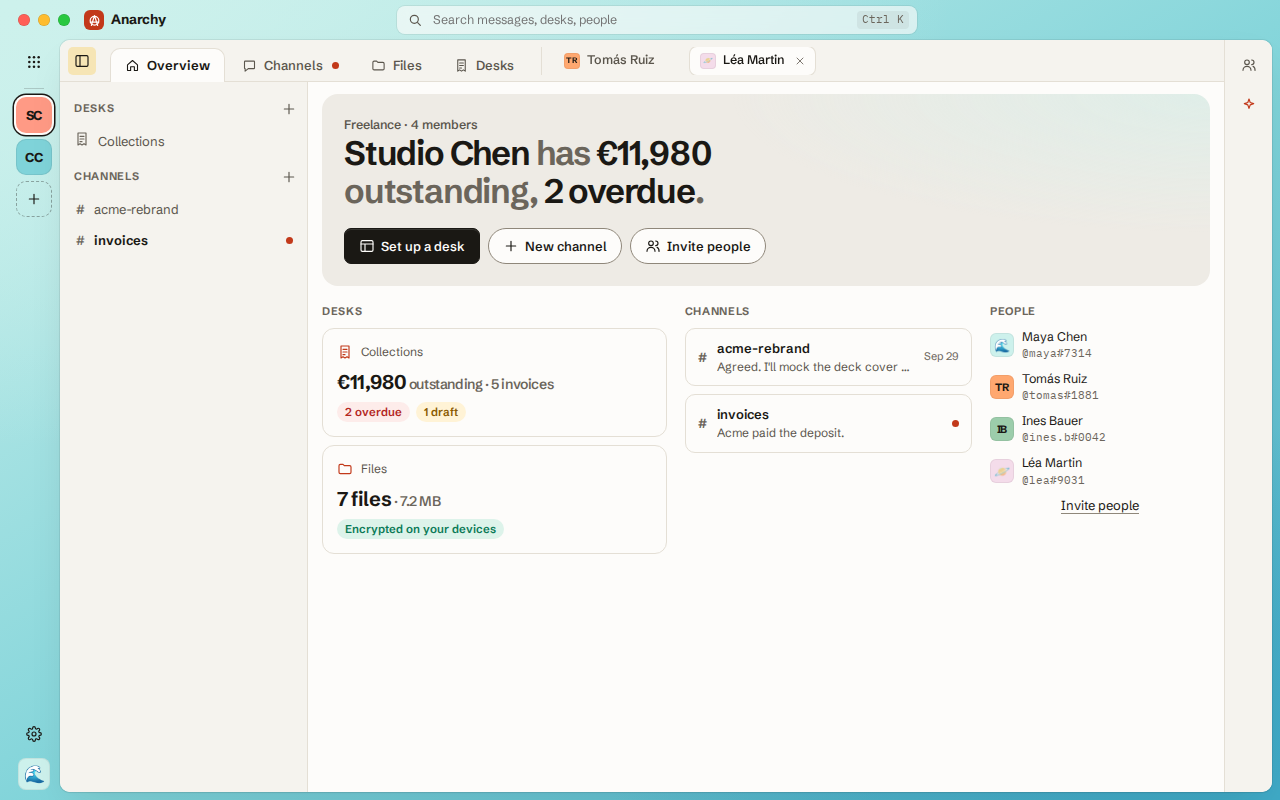
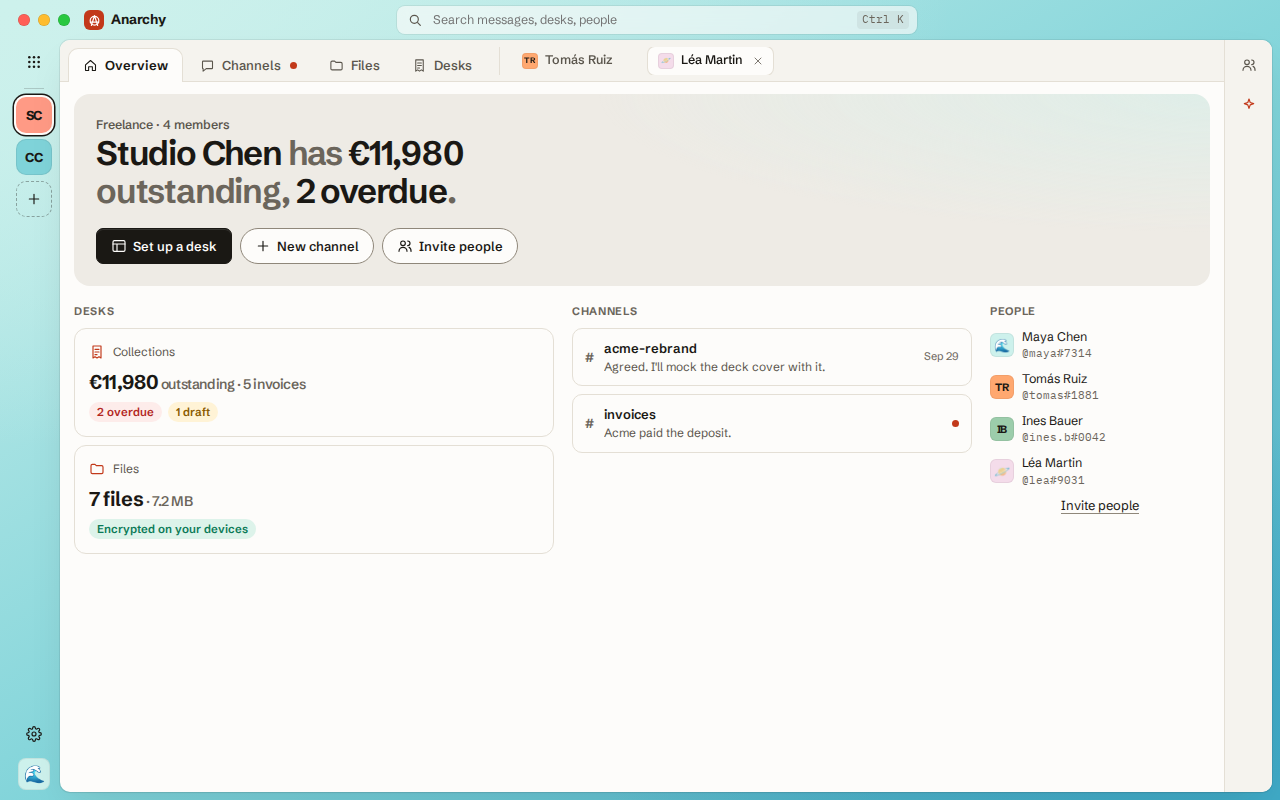
Fix threads docking; sidebar only for conversations; one right-hand column
- Threads: the conversation was squeezed to a sliver because an old rule
  reserved space for the thread on top of the new docking. Thread tabs keep
  their name when you're in another channel. Opening People or the assistant
  closes the thread; all three dock on the right at one width.
- The left sidebar shows only in Chats (Home) and Channels (a space).
  Overview, Files, Desks, Agenda and Notes get the full width; Notes keeps
  its page list inside the page. Desks left the sidebar (the Desks folder
  lists them).
- @mentions: desks show in the picker at once instead of after the member
  list loads, so typing fast and pressing Enter picks instead of sending.
- Agenda's controls no longer restyle the desk's status tabs.
- The preview script now checks the thread flows and fails if they break.
- Docs: D26.

Claude-Session: https://claude.ai/code/session_01JqRrPLnBLMGeUFp3LTktD7

diff --git a/apps/desktop/ui/app.js b/apps/desktop/ui/app.js
@@ -493,6 +493,7 @@ function renderRail() {
 
 function go(which) {
   view = which;
+  chatsHint = false;
   closeDrawers();
   renderRail();
   if (which === "settings") {
@@ -569,9 +570,6 @@ function renderSide() {
   show("no-dms", dms.length === 0);
   if (view === "space" && currentSpace) {
     const desks = channels.filter((c) => c.kind === "channel" && c.space === currentSpace.id && c.desk && c.desk !== "files");
-    $("desk-list").replaceChildren(...desks.map((c) => el("button", { class: `side-item${c.id === current ? " active" : ""}`, "data-id": c.id, onclick: () => openChannel(c.id) },
-      el("span", { class: "kind-icon" }, icon("receipt")), el("span", { class: "name", text: c.name }))));
-    show("no-desks", desks.length === 0);
     const list = channels.filter((c) => c.kind === "channel" && c.space === currentSpace.id && !c.desk);
     $("channel-list").replaceChildren(...list.map((c) => {
       const unread = c.unread && c.id !== current;
@@ -727,7 +725,11 @@ function renderThread() {
   $("thread-input").placeholder = root && !root.mine ? `Reply to ${root.sender}…` : "Reply in thread…";
 }
 $("thread-close").addEventListener("click", closeThread);
-$("thread-tab").addEventListener("click", () => { if (thread) { addTab({ channel: thread.channel, thread: thread.root }); renderTabs(); } });
+function threadLabel() {
+  const root = convo?.messages.find((m) => m.seq === thread?.root && m.thread == null);
+  return root ? root.text.slice(0, 32) : null;
+}
+$("thread-tab").addEventListener("click", () => { if (thread) { addTab({ channel: thread.channel, thread: thread.root, label: threadLabel() }); renderTabs(); } });
 $("thread-input").addEventListener("input", () => { $("thread-send").disabled = !$("thread-input").value.trim(); mentionInput($("thread-input")); });
 $("thread-input").addEventListener("blur", () => setTimeout(closeMention, 120));
 $("thread-input").addEventListener("keydown", (e) => {
@@ -745,7 +747,7 @@ $("thread-form").addEventListener("submit", async (e) => {
     await invoke("send_message", { channel, text, thread: root });
     await forwardToDesks(text, channels.find((c) => c.id === channel));
     // Taking part in a thread puts it in the working set.
-    addTab({ channel, thread: root });
+    addTab({ channel, thread: root, label: threadLabel() });
   } catch (err) { $("thread-input").value = text; alert(`Not sent: ${err}`); }
   await openChannel(channel);
 });
@@ -764,9 +766,9 @@ const tabKey = (t) => (t.thread != null ? `${t.channel}:${t.thread}` : t.channel
 function addTab(t) {
   const key = tabKey(t);
   const at = tabs.find((x) => tabKey(x) === key);
-  if (at) at.used = Date.now();
+  if (at) { at.used = Date.now(); if (t.label) at.label = t.label; }
   else {
-    tabs.push({ channel: t.channel, thread: t.thread ?? null, used: Date.now() });
+    tabs.push({ channel: t.channel, thread: t.thread ?? null, label: t.label || null, used: Date.now() });
     while (tabs.length > MAX_TABS) {
       const active = activeTabKey();
       const victim = tabs.filter((x) => tabKey(x) !== active).sort((a, b) => a.used - b.used)[0];
@@ -824,7 +826,7 @@ function renderTabs() {
     if (t.thread != null) {
       lead = el("span", { class: "tab-icon" }, icon("thread"));
       const root = convo?.channel.id === c.id ? convo.messages.find((m) => m.seq === t.thread && m.thread == null) : null;
-      name = root ? root.text.slice(0, 28) : `Thread in ${c.kind === "dm" ? c.name : `#${c.name}`}`;
+      name = root ? root.text.slice(0, 32) : t.label || `Thread in ${c.kind === "dm" ? c.name : `#${c.name}`}`;
       const replies = convo?.channel.id === c.id ? convo.messages.filter((m) => m.thread === t.thread) : [];
       const unseen = replies.filter((r) => !r.mine && r.seq > (threadSeen[key] || 0)).length;
       if (unseen && key !== active) status = el("span", { class: "tab-badge", text: String(unseen) });
@@ -864,8 +866,11 @@ document.addEventListener("keydown", (e) => {
 
 let settingsAt = "profile";
 const SETTINGS_PAGES = [["profile", "Profile"], ["privacy", "Privacy"], ["account", "Account & device"], ["appearance", "Appearance"], ["notifications", "Notifications"], ["files", "Files on this computer"], ["devices", "Devices"], ["invites", "Guest invites"]];
+// Set when you pick Chats with no conversation open, so the list still shows.
+let chatsHint = false;
 function sectionNow() {
   const cur = channels.find((c) => c.id === current);
+  if (!cur && chatsHint && (view === "home" || view === "space")) return "chats";
   if (!$("view-desks").hidden) return "desks";
   if (!$("view-agenda").hidden) return "agenda";
   if (!$("view-notes").hidden) return note?.file ? "files" : "notes";
@@ -901,6 +906,7 @@ function lastOpen(pred) {
 }
 async function openSection(key) {
   if (thread) closeThread();
+  chatsHint = false;
   const here = (c) => (view === "home" ? c.kind === "dm" : c.space === currentSpace?.id);
   if (key === "overview") { current = null; invoke("blur"); showStart(); renderSide(); return; }
   if (key === "agenda") return openAgenda();
@@ -914,7 +920,8 @@ async function openSection(key) {
   }
   // Chats / Channels: pick up where you left off, else the first one, else the list.
   const last = lastOpen((c) => here(c) && !c.desk) || channels.find((c) => here(c) && !c.desk && (view === "home" ? true : c.kind === "channel"));
-  if (last) { await openChannel(last.id); composer.focus(); } else toggleDrawer("chats", true);
+  if (last) { await openChannel(last.id); composer.focus(); }
+  else { current = null; showStart(); chatsHint = true; renderFolders(); toggleDrawer("chats", true); }
 }
 async function showDesks() {
   const sp = currentSpace;
@@ -948,7 +955,9 @@ function toggleDrawer(name, force) {
 }
 function closeDrawers() { drawer = null; paintDrawers(); }
 function paintDrawers() {
-  const chatsOn = pinned || drawer === "chats";
+  // The sidebar belongs to conversations only: Chats on Home, Channels in a space.
+  const chatSection = view !== "settings" && sectionNow() === "chats";
+  const chatsOn = chatSection && (pinned || drawer === "chats");
   show("drawer-chats", chatsOn);
   show("drawer-people", drawer === "people");
   syncDock();
@@ -956,8 +965,9 @@ function paintDrawers() {
   $("drawer-chats").classList.toggle("pinned", pinned);
   $("tool-chats").setAttribute("aria-expanded", String(chatsOn));
   if (chatsOn) show("tool-chats-dot", false);
-  show("drawer-chats", chatsOn && view !== "settings");
-  $("workspace").classList.toggle("chats-pinned", pinned && view !== "settings");
+  show("drawer-chats", chatsOn);
+  show("tool-chats", chatSection);
+  $("workspace").classList.toggle("chats-pinned", chatsOn && pinned);
   $("tool-people").setAttribute("aria-expanded", String(drawer === "people"));
   // Docked: the button collapses it. Popped over: the same button docks it.
   for (const b of document.querySelectorAll(".drawer-pin")) {
@@ -1141,13 +1151,23 @@ async function mentionInput(input) {
   const m = /(^|\s)@([^\s@]{0,24})$/.exec(upto);
   if (!m) return closeMention();
   const q = m[2].toLowerCase();
+  const start = upto.length - m[2].length - 1;
   const desks = desksInScope().filter((d) => d.name.toLowerCase().includes(q)).map((d) => ({ kind: "desk", label: d.name, sub: `Desk · ${KIND_OF_DESK[d.desk] || d.desk}`, insert: `@${d.name}`, d }));
-  const people = (await mentionPeople()).filter((p) => `${p.name} ${p.handle}`.toLowerCase().includes(q)).slice(0, 5)
-    .map((p) => ({ kind: "person", label: p.name, sub: `@${p.handle}`, insert: `@${p.handle.split("#")[0]}`, p }));
-  const items = [...desks, ...people].slice(0, 7);
-  if (!items.length) return closeMention();
-  mention = { input, start: upto.length - m[2].length - 1, items, cursor: 0 };
-  paintMention();
+  // Desks are known on this device: show them now; people follow once loaded.
+  const show = (people) => {
+    const items = [...desks, ...people].slice(0, 7);
+    if (!items.length) return closeMention();
+    const keep = mention && mention.input === input && mention.start === start ? mention.cursor : 0;
+    mention = { input, start, items, cursor: Math.min(keep, items.length - 1) };
+    paintMention();
+  };
+  if (desks.length) show([]);
+  const all = await mentionPeople();
+  // Still typing the same mention?
+  const now = input.value.slice(0, input.selectionStart);
+  if (!now.endsWith(`@${m[2]}`)) return;
+  show(all.filter((p) => `${p.name} ${p.handle}`.toLowerCase().includes(q)).slice(0, 5)
+    .map((p) => ({ kind: "person", label: p.name, sub: `@${p.handle}`, insert: `@${p.handle.split("#")[0]}`, p })));
 }
 function paintMention() {
   const pop = $("mention-pop");
@@ -1309,11 +1329,10 @@ function syncDock() {
 // Which list the sidebar shows: the space's desks and channels, or on Home the
 // list for the section you're in (conversations, pages, what's coming).
 function paintSide() {
-  const sec = view === "home" ? sectionNow() : null;
+  paintDrawers();
   show("side-space", view === "space");
-  show("side-home", view === "home" && sec !== "notes" && sec !== "agenda");
-  show("side-notes", view === "home" && sec === "notes");
-  show("side-agenda", view === "home" && sec === "agenda");
+  show("side-home", view === "home");
+
 }
 
 // ---------- personal desks: agenda and notes ----------
@@ -1413,15 +1432,7 @@ function renderAgenda() {
     grid.replaceChildren(...cols);
   }
 }
-function renderAgendaSide() {
-  const today = isoToday();
-  const horizon = addDays(today, 14);
-  const next = [...events(), ...agenda.dues].filter((e) => e.date >= today && e.date <= horizon).sort((a, b) => a.date.localeCompare(b.date) || (a.start || "").localeCompare(b.start || ""));
-  $("agenda-next").replaceChildren(...next.slice(0, 20).map((e) => el("button", { class: "side-item agenda-item", type: "button", onclick: () => (e.due ? goTo(e.channel) : openEvent(e)) },
-    el("span", { class: `ev-dot ${e.due ? "due" : `c-${e.color || "ink"}`}` }),
-    el("span", { class: "lines" }, el("span", { class: "name", text: e.title }), el("small", { text: `${e.date === today ? "Today" : shortDate.format(asDate(e.date))}${e.due ? "" : e.all_day ? "" : ` · ${e.start}`}` })))));
-  show("no-agenda", next.length === 0);
-}
+function renderAgendaSide() { /* the calendar shows it; no sidebar outside chats */ }
 $("agenda-prev").addEventListener("click", () => { const c = agenda.cursor; agenda.cursor = agenda.mode === "month" ? new Date(c.getFullYear(), c.getMonth() - 1, 1, 12) : new Date(c.getTime() - 7 * 864e5); renderAgenda(); });
 $("agenda-next-btn").addEventListener("click", () => { const c = agenda.cursor; agenda.cursor = agenda.mode === "month" ? new Date(c.getFullYear(), c.getMonth() + 1, 1, 12) : new Date(c.getTime() + 7 * 864e5); renderAgenda(); });
 $("agenda-today").addEventListener("click", () => { agenda.cursor = new Date(); renderAgenda(); });
@@ -1450,7 +1461,6 @@ function openEvent(e, iso) {
 }
 $("ev-allday").addEventListener("change", () => { for (const id of ["ev-start", "ev-end"]) $(id).disabled = $("ev-allday").checked; });
 $("event-new").addEventListener("click", () => openEvent(null, isoOf(agenda.cursor)));
-$("event-new-side").addEventListener("click", () => openEvent(null));
 $("event-cancel").addEventListener("click", () => $("dlg-event").close());
 async function putEvent(id, data) {
   const channel = await personalDesk("agenda");
@@ -2498,8 +2508,7 @@ $("desk-people").addEventListener("click", () => openPeople(true));
 
 // New desk.
 function openNewDesk() { $("desk-new-name").value = "Collections"; setError("desk-error", ""); $("dlg-desk").showModal(); $("desk-new-name").select(); }
-$("new-desk").addEventListener("click", openNewDesk);
-$("no-desks").addEventListener("click", openNewDesk);
+
 $("space-empty-desk").addEventListener("click", openNewDesk);
 $("desk-cancel").addEventListener("click", () => $("dlg-desk").close());
 $("desk-form").addEventListener("submit", async (e) => {

diff --git a/apps/desktop/ui/index.html b/apps/desktop/ui/index.html
@@ -297,25 +297,8 @@
             <div class="side-list" id="dm-list"></div>
             <p class="side-empty" id="no-dms">No conversations yet.</p>
           </div>
-          <!-- Home, Notes: your pages -->
-          <div class="side" id="side-notes" hidden>
-            <div class="side-list"><button class="side-item nav" id="note-new" type="button"><svg class="i"><use href="#i-plus"/></svg><span class="name">New page</span></button></div>
-            <label class="search pill side-search"><svg class="i"><use href="#i-search"/></svg><input id="note-search" placeholder="Find a page" aria-label="Find a page"></label>
-            <div class="side-list" id="note-list"></div>
-            <p class="side-empty" id="no-notes">No pages yet.</p>
-          </div>
-          <!-- Home, Agenda: what's coming -->
-          <div class="side" id="side-agenda" hidden>
-            <div class="side-list"><button class="side-item nav" id="event-new-side" type="button"><svg class="i"><use href="#i-plus"/></svg><span class="name">New event</span></button></div>
-            <div class="side-group"><span>Next two weeks</span></div>
-            <div class="side-list" id="agenda-next"></div>
-            <p class="side-empty" id="no-agenda">Nothing planned.</p>
-          </div>
-          <!-- Space: its desks and channels (Overview and Files are folders above) -->
+          <!-- Space: its channels (desks, files and the overview are folders above) -->
           <div class="side" id="side-space" hidden>
-            <div class="side-group"><span>Desks</span><button class="icon-btn sm" id="new-desk" aria-label="New desk" title="New desk"><svg class="i"><use href="#i-plus"/></svg></button></div>
-            <div class="side-list" id="desk-list"></div>
-            <button class="side-empty link-row" id="no-desks" type="button">Set up a desk for invoices, requests or jobs</button>
             <div class="side-group"><span>Channels</span><button class="icon-btn sm" id="new-channel" aria-label="New channel" title="New channel"><svg class="i"><use href="#i-plus"/></svg></button></div>
             <div class="side-list" id="channel-list"></div>
             <p class="side-empty" id="no-channels">No channels yet.</p>
@@ -394,8 +377,8 @@
           <div class="agenda-head">
             <div><p class="hero-kind" id="agenda-kind">Agenda</p><h1 class="agenda-title" id="agenda-title"></h1></div>
             <span class="spacer"></span>
-            <div class="seg pill" role="group" aria-label="Move"><button type="button" id="agenda-prev" aria-label="Previous"><svg class="i"><use href="#i-arrow-left"/></svg></button><button type="button" id="agenda-today">Today</button><button type="button" id="agenda-next-btn" aria-label="Next"><svg class="i flip"><use href="#i-arrow-left"/></svg></button></div>
-            <div class="seg pill agenda-mode" role="tablist" aria-label="View"><button type="button" role="tab" data-mode="week">Week</button><button type="button" role="tab" data-mode="month">Month</button></div>
+            <div class="navseg" role="group" aria-label="Move"><button type="button" id="agenda-prev" aria-label="Previous"><svg class="i"><use href="#i-arrow-left"/></svg></button><button type="button" id="agenda-today">Today</button><button type="button" id="agenda-next-btn" aria-label="Next"><svg class="i flip"><use href="#i-arrow-left"/></svg></button></div>
+            <div class="navseg agenda-mode" role="tablist" aria-label="View"><button type="button" role="tab" data-mode="week">Week</button><button type="button" role="tab" data-mode="month">Month</button></div>
             <button class="btn-ink inline" id="event-new" type="button"><svg class="i"><use href="#i-plus"/></svg><span>Add event</span></button>
           </div>
           <div class="cal-grid" id="cal-grid"></div>
@@ -403,6 +386,13 @@
 
         <!-- Notes: pages with blocks, like a notebook; also edits text files from the drive -->
         <div class="view notes" id="view-notes" hidden>
+          <aside class="note-pages" aria-label="Pages">
+            <button class="side-item nav" id="note-new" type="button"><svg class="i"><use href="#i-plus"/></svg><span class="name">New page</span></button>
+            <label class="search pill side-search"><svg class="i"><use href="#i-search"/></svg><input id="note-search" placeholder="Find a page" aria-label="Find a page"></label>
+            <div class="side-list" id="note-list"></div>
+            <p class="side-empty" id="no-notes">No pages yet.</p>
+          </aside>
+          <section class="note-main">
           <div class="note-bar"><nav class="crumbs" id="note-crumbs" aria-label="Where"></nav><span class="spacer"></span><span class="fine" id="note-saved"></span><button class="icon-btn" id="note-delete" type="button" title="Delete page" aria-label="Delete page"><svg class="i"><use href="#i-trash"/></svg></button></div>
           <div class="note-scroll">
             <article class="note-page" id="note-page">
@@ -412,6 +402,7 @@
               <p class="note-hint fine">Type <kbd>/</kbd> for headings, lists, to-dos, quotes and code. <kbd>#</kbd>, <kbd>-</kbd>, <kbd>[]</kbd> and <kbd>&gt;</kbd> work too.</p>
             </article>
           </div>
+          </section>
           <div class="slash-pop panel" id="slash-pop" role="listbox" aria-label="Turn into" hidden></div>
         </div>
 

diff --git a/apps/desktop/ui/app.css b/apps/desktop/ui/app.css
@@ -719,7 +719,6 @@ form.start-card { cursor: default; }
 .thread-count::after { content: ""; flex: 1; border-top: 1px solid var(--border); }
 .thread-orphan { margin: 0; }
 /* Leave room so the conversation stays readable beside a thread on wide windows. */
-@media (min-width: 1180px) { .main.with-panel .convo { padding-right: 400px; } }
 
 .tools { display: flex; flex-direction: column; align-items: center; gap: 6px; padding: 8px 0; border-left: 1px solid var(--border); background: color-mix(in srgb, var(--surface-sunken) 55%, var(--surface)); border-radius: 0 var(--radius-lg) var(--radius-lg) 0; }
 .tool-btn { position: relative; display: grid; place-items: center; width: 34px; height: 34px; border: 0; border-radius: 9px; background: transparent; color: var(--ink-muted); cursor: pointer; }
@@ -771,7 +770,7 @@ button.person-row { cursor: pointer; } .person-row:hover { background: var(--sur
 .side-toggle[aria-pressed="true"] { color: var(--ink); background: var(--surface-selected); }
 .side-search { display: flex; box-sizing: border-box; width: auto; margin: 4px 10px 6px; min-width: 0; }
 .side-search input { flex: 1; min-width: 0; width: auto; }
-.seg.agenda-mode button[aria-selected="true"] { background: var(--ink); color: var(--surface); }
+.navseg.agenda-mode button[aria-selected="true"] { background: var(--ink); color: var(--surface); }
 .search.pill.side-search { width: auto; max-width: none; }
 .ev.big .ev-time { display: none; }
 .agenda-item .lines, .note-item .lines { display: grid; min-width: 0; }
@@ -789,9 +788,9 @@ button.person-row { cursor: pointer; } .person-row:hover { background: var(--sur
 .agenda-head { display: flex; align-items: center; gap: 10px; flex-wrap: wrap; padding: 18px 22px 14px; background: radial-gradient(70% 140% at 85% 0%, color-mix(in srgb, var(--fa) 40%, transparent), transparent 70%); }
 .agenda-title { margin: 2px 0 0; font-size: 30px; line-height: 1.1; font-weight: 700; letter-spacing: -0.02em; }
 .agenda-title .soft { color: var(--ink-faint); font-weight: 600; }
-.seg { display: inline-flex; align-items: center; padding: 3px; gap: 2px; border-radius: 999px; background: var(--surface); box-shadow: 0 0 0 1px var(--border); }
-.seg button { display: grid; place-items: center; height: 28px; min-width: 28px; padding: 0 10px; border: 0; border-radius: 999px; background: transparent; color: var(--ink); font: inherit; font-size: 13px; cursor: pointer; }
-.seg button:hover { background: var(--surface-selected); }
+.navseg { display: inline-flex; align-items: center; padding: 3px; gap: 2px; border-radius: 999px; background: var(--surface); box-shadow: 0 0 0 1px var(--border); }
+.navseg button { display: grid; place-items: center; height: 28px; min-width: 28px; padding: 0 10px; border: 0; border-radius: 999px; background: transparent; color: var(--ink); font: inherit; font-size: 13px; cursor: pointer; }
+.navseg button:hover { background: var(--surface-selected); }
 svg.i.flip { transform: scaleX(-1); }
 .agenda-mode { margin: 0; }
 .cal-grid { flex: 1; min-height: 0; overflow-y: auto; display: grid; grid-template-columns: repeat(7, minmax(0, 1fr)); border-top: 1px solid var(--border); }
@@ -874,3 +873,12 @@ svg.i.flip { transform: scaleX(-1); }
 .today-row small { color: var(--ink-muted); }
 .today-row.empty { color: var(--ink-muted); }
 @media (max-width: 900px) { .home-today { grid-template-columns: 1fr; } }
+
+/* ---------- notes: its own page list, inside the page ---------- */
+.notes { display: grid; grid-template-columns: 240px minmax(0, 1fr); }
+.note-pages { display: flex; flex-direction: column; gap: 4px; min-height: 0; overflow-y: auto; padding: 10px 8px; border-right: 1px solid var(--border); background: color-mix(in srgb, var(--surface-sunken) 35%, var(--surface)); }
+.note-pages .side-search { margin: 2px 2px 6px; }
+.note-main { display: flex; flex-direction: column; min-height: 0; min-width: 0; }
+@container (max-width: 760px) { .notes { grid-template-columns: 1fr; } .note-pages { display: none; } }
+/* One width for everything that docks on the right: People, the assistant, threads. */
+.thread { width: min(380px, 100%); }

diff --git a/docs/ARCHITECTURE.md b/docs/ARCHITECTURE.md
@@ -229,6 +229,7 @@ mcp_audit(id, client_id, user_id, tool, channels_touched[], ts)
 | D23 | **Sections are folder tabs; lists and people pop over from the left.** | Decided 2026-09-29 | The canvas no longer keeps a sidebar open. Its top edge holds folder tabs for the space's sections (Overview, Channels, Files, Desks; in settings, its pages), then the working set (D22). A strip on the left has three buttons that pull panels over the canvas from that edge: the channel and desk list, the people in the space, and Ask. Picking something closes the panel; the list can be pinned for people who switch conversations all day. The cost is a click (or `Ctrl \`, or a tab) to reach a conversation that isn't in the working set; the gain is the full width for desks, files and threads. |
 | D24 | **Sign-in starts with who you are, not where your server is.** | Decided 2026-09-29 | The first screen is Google, email, anonymous or an invite, against the public server (`ANARCHY_DEFAULT_SERVER`, set at build time) or the one used last. A work email finds its company's server from `https://<domain>/.well-known/anarchy.json`; an invite link (`https://<server>/i/<code>`) carries its server; typing an address is the fallback under "Use a different server". Costs: there must be a public server to default to (running one means hosting, abuse handling and a privacy policy), and someone at a company that hasn't published the discovery file lands on the public server unless they have an invite. Also revises D23: channels, files and desks are back in a left sidebar, docked by default and collapsible to a pop-over (`Ctrl \`); People and Ask moved to a strip on the right. |
 | D25 | **Your agenda and notes live in personal channels; mail waits.** | Decided 2026-09-29 | A personal channel (`kind = 'personal'`, no space, owner in `dm_a`) is an MLS group of one person's devices; the server refuses to add anyone else's. Agenda events and note pages are records in it, like a desk's, so they sync between that person's devices and nobody else can read them. Notes are pages of blocks (text, three headings, bullets, to-dos, quote, code, divider) with `/` and Markdown shortcuts; a page is one record, so two devices editing the same page at once keep the later save until pages move to a CRDT. The same editor opens `.md` and `.txt` files from a space's drive and saves them back encrypted. The agenda also shows invoices falling due from every Collections desk the device can read, worked out locally. Mail isn't built: it needs IMAP/SMTP or the Gmail and Microsoft APIs with OAuth, HTML sanitising and spam handling, and it can't be end-to-end encrypted, so it gets its own step instead of a screen that pretends. People, Ask and threads now dock beside the page on wide windows instead of covering it. |
+| D26 | **The sidebar is for conversations only.** | Decided 2026-09-29 | The left sidebar appears only in Chats (Home) and Channels (a space): the lists you switch between all day. Overview, Files, Desks, Agenda and Notes use the whole width; Notes keeps its page list inside the page, like a desk's notes column. People, the assistant and threads all dock on the right at one width, and opening one closes the others. |
 
 ## 12. Open decisions
 
